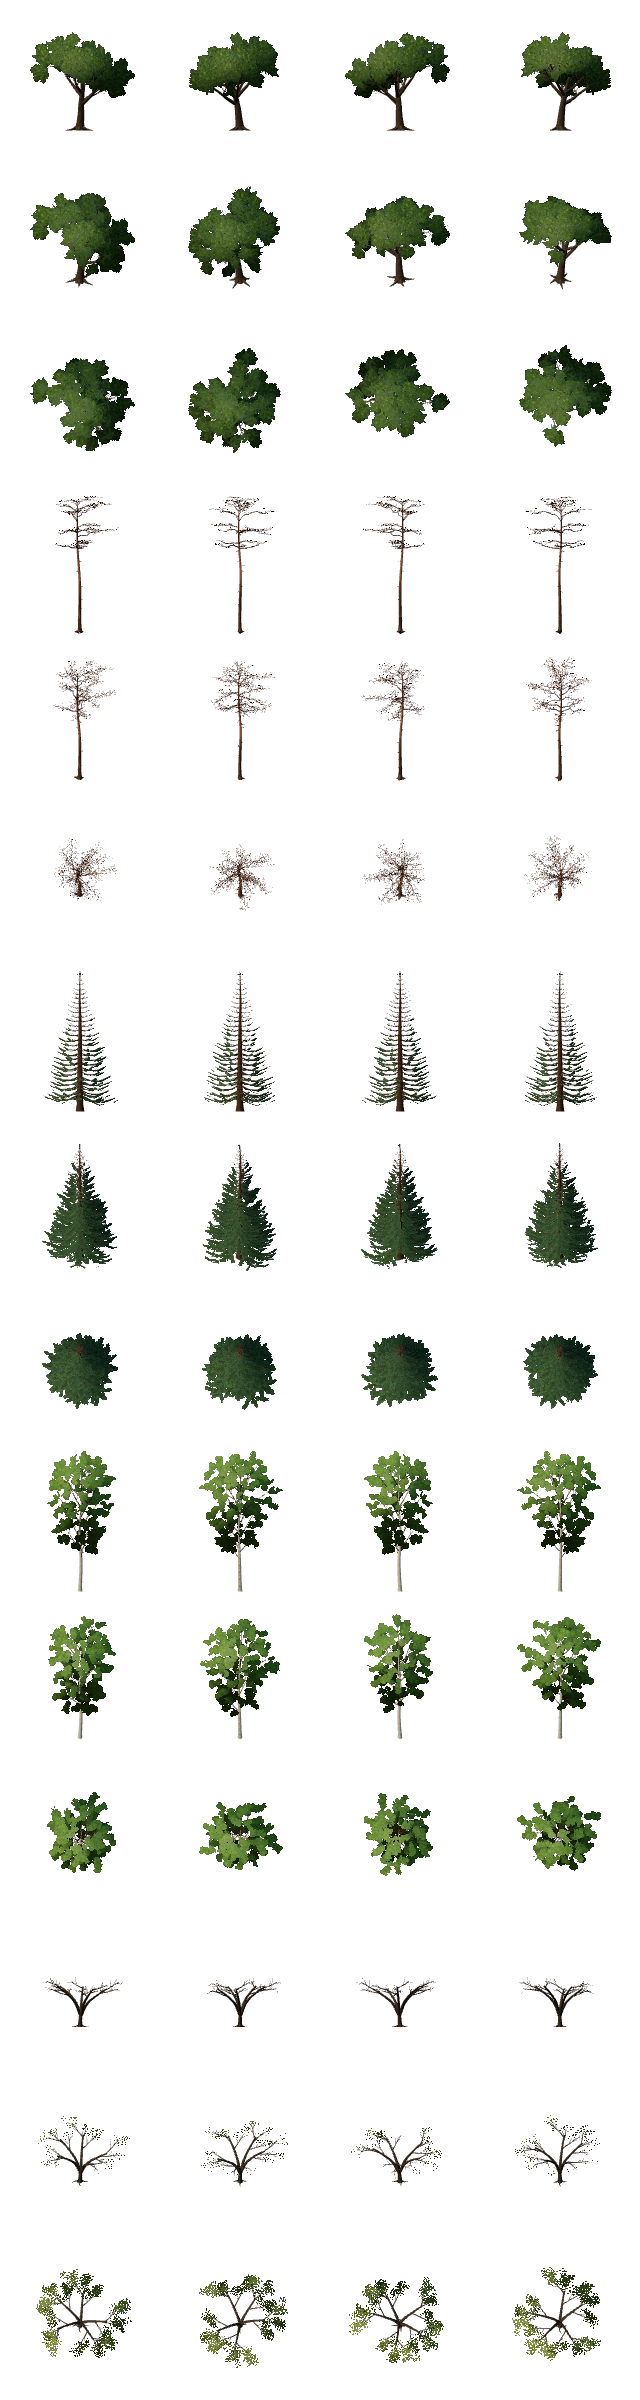
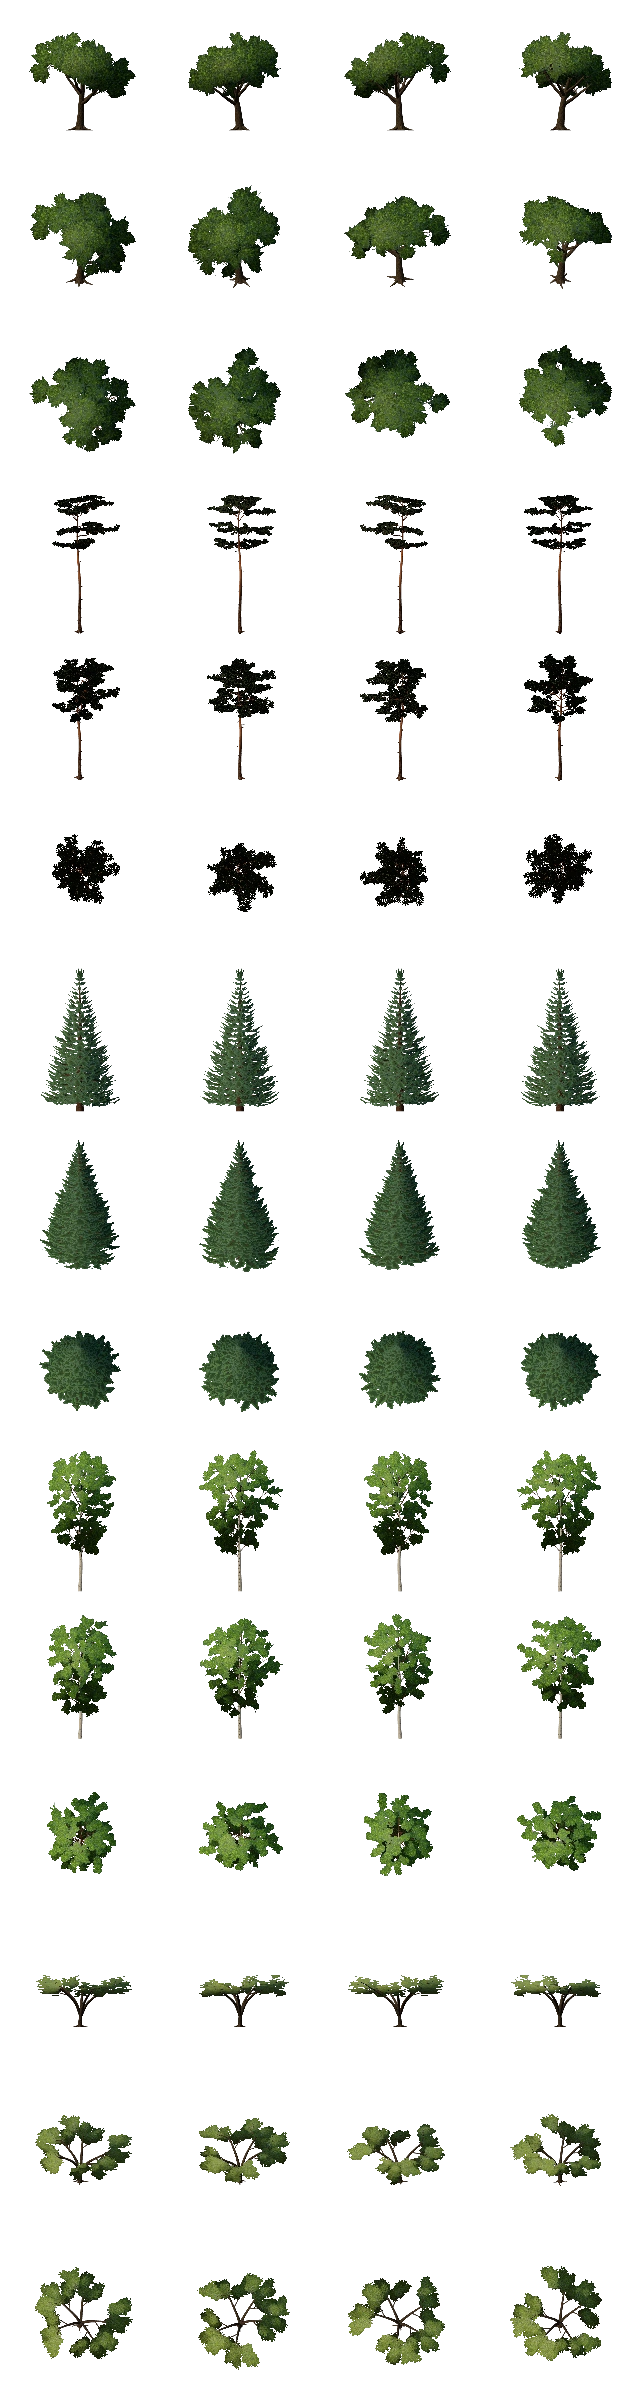
Verify biome boundaries, streaming, shared resources and supersampled distant foliage

diff --git a/scripts/forest-browser-check.js b/scripts/forest-browser-check.js
@@ -1,0 +1,138 @@
+import assert from 'node:assert/strict';
+import { mkdir, writeFile } from 'node:fs/promises';
+import { chromium } from 'playwright-core';
+import { createServer } from 'vite';
+import { stations } from '../src/data/world.js';
+
+const baseline = process.argv.includes('--baseline');
+const out =
+  process.env.FOREST_OUTPUT ||
+  'test-results/forests/' + (baseline ? 'before' : 'after');
+const stationsById = Object.fromEntries(stations.map((s) => [s.id, s]));
+const views = {
+  highway: { x: -595, z: 1952, above: 2.05, yaw: -0.34, pitch: 0.035 },
+  'highway-aerial': { x: -435, z: 2120, above: 184, yaw: 0.7, pitch: -0.48 },
+  slope: { x: -1520, z: -1240, above: 118, yaw: 0.87, pitch: -0.32 },
+  interior: stationsById.forest,
+  edge: { x: -68, z: 1805, above: 5.1, yaw: 1.92, pitch: 0.015 },
+  coast: stationsById.strand,
+  showcase: stationsById['tree-showcase'],
+};
+const server = await createServer({
+  server: { host: '127.0.0.1', port: 0, hmr: false, watch: null },
+  logLevel: 'error',
+});
+await server.listen();
+let browser;
+try {
+  await mkdir(out, { recursive: true });
+  browser = await chromium.launch({
+    executablePath: process.env.CHROME_PATH,
+    args: process.env.AIRP_SOFTWARE_GL
+      ? [
+          '--no-zygote',
+          '--single-process',
+          '--use-gl=angle',
+          '--use-angle=swiftshader',
+          '--enable-unsafe-swiftshader',
+          '--disable-dev-shm-usage',
+        ]
+      : [],
+  });
+  const page = await browser.newPage({ viewport: { width: 896, height: 544 } });
+  const errors = [];
+  page.on('pageerror', (e) => errors.push(String(e)));
+  page.on('console', (m) => {
+    if (m.type() === 'error') errors.push(m.text());
+  });
+  page.on('response', (r) => {
+    if (r.status() >= 400) errors.push(r.status() + ' ' + r.url());
+  });
+  page.setDefaultTimeout(180000);
+  await page.goto('http://127.0.0.1:' + server.httpServer.address().port);
+  await page.waitForFunction(() => window.airp && !airp.waitForTerrain);
+  await page.evaluate(() => {
+    airp.quality('medium');
+    airp.maxDpr = airp.nextDpr = 0.8;
+    airp.resPeriod = -1e8;
+  });
+  const results = {};
+  for (const [name, view] of Object.entries(views)) {
+    if (name === 'showcase') {
+      await page.locator('#atlas-btn').click();
+      await page
+        .locator('#stations')
+        .getByRole('button', { name: 'Tree Model Showcase', exact: true })
+        .click();
+    } else await page.evaluate((v) => airp.travel(v), view);
+    await page.waitForFunction(
+      () =>
+        !airp.waitForTerrain &&
+        airp.streamer.settled &&
+        airp.roads.settled &&
+        (!airp.forest || airp.forest.settled),
+    );
+    results[name] = await page.evaluate(async () => {
+      const times = [];
+      let last = performance.now();
+      for (let i = 0; i < 14; i++) {
+        await new Promise(requestAnimationFrame);
+        const now = performance.now();
+        if (i > 1) times.push(now - last);
+        last = now;
+      }
+      times.sort((a, b) => a - b);
+      const info = airp.renderer.info;
+      return {
+        frameMs: times[6],
+        p90Ms: times[10],
+        fps: 1000 / times[6],
+        draws: info.render.calls,
+        triangles: info.render.triangles,
+        ...info.memory,
+        forest: airp.forest
+          ? {
+              ...airp.forest.stats,
+              frustumInstances: airp.forest.canopy.visibleInstances,
+            }
+          : undefined,
+        heapMiB: performance.memory?.usedJSHeapSize / 1048576,
+        showcase: airp.showcase.groves.reduce(
+          (sum, g) => sum + g.trees.length,
+          0,
+        ),
+      };
+    });
+    await page.screenshot({
+      path: out + '/' + name + '.jpg',
+      quality: 88,
+      style: 'main > :not(#world) {visibility:hidden !important;}',
+    });
+    await writeFile(out + '/metrics.json', JSON.stringify(results, null, 2));
+    console.log(name, JSON.stringify(results[name]));
+  }
+  assert.equal(results.showcase.showcase, 15);
+  if (!baseline) {
+    assert.ok(results.interior.forest?.instances > 0);
+    await page.evaluate(async (views) => {
+      for (let i = 0; i < 28; i++) {
+        const x = -595 - i * 100,
+          z = 1952 - i * 105;
+        airp.travel({ ...views.highway, x, z });
+        await new Promise(requestAnimationFrame);
+      }
+      airp.travel(views.interior);
+    }, views);
+    await page.waitForFunction(
+      () =>
+        !airp.waitForTerrain && airp.streamer.settled && airp.forest.settled,
+    );
+    const reloaded = await page.evaluate(() => airp.forest.stats);
+    assert.equal(reloaded.instances, results.interior.forest.instances);
+    assert.equal(reloaded.chunks, results.interior.forest.chunks);
+  }
+  assert.deepEqual(errors, []);
+} finally {
+  await browser?.close();
+  await server.close();
+}

diff --git a/scripts/tree-browser-check.js b/scripts/tree-browser-check.js
@@ -38,7 +38,7 @@ try {
   await ready();
   assert.equal(requests.length, 0, 'No tree downloads at the city spawn');
   await visit('Tree Model Showcase');
-  assert.equal(requests.length, 5);
+  assert.ok(requests.length >= 5);
   assert.equal(new Set(requests).size, 5);
   await page.keyboard.press('g');
   await page.waitForFunction(() => document.querySelector('#mode-label').textContent === 'GROUND LEVEL');
@@ -67,7 +67,7 @@ try {
     });
   });
   assert.equal(shaderChecks.length, 5);
-  assert.ok(shaderChecks.every(s => s.bark && s.leaves && s.shadows && s.shared && s.references === 1 && s.trees === 3));
+  assert.ok(shaderChecks.every(s => s.bark && s.leaves && s.shadows && s.shared && s.references >= 1 && s.references <= 2 && s.trees === 3));
   async function settled() {
     await page.waitForFunction(() => !airp.waitForTerrain && airp.streamer.settled && airp.roads.settled);
     await page.evaluate(() => new Promise(resolve => requestAnimationFrame(() => requestAnimationFrame(resolve))));
@@ -139,8 +139,10 @@ try {
   assert.ok(await page.evaluate(() => airp.showcase.groves.every(g =>
     g.trees.every(t => t.level === 'far') && g.batches.far.every(p => p.batch.count === 3))));
   await visit('Silverpine Forest');
+  await page.waitForFunction(()=>airp.forest.settled);
   assert.ok(await page.evaluate(() => !airp.showcase.root.parent && airp.showcase.root.children.length === 0 &&
-    !Array.from(airp.assets.entries.keys()).some(id => id.startsWith('showcase-'))));
+    Array.from(airp.assets.entries).filter(([id])=>id.startsWith('showcase-')).every(([,entry])=>entry.refs===1) &&
+    Array.from(airp.assets.entries.keys()).filter(id=>id.startsWith('showcase-')).length===airp.forest.models.entries.size));
   await visit('Tree Model Showcase');
   await settled();
   assert.ok(await page.evaluate(() => airp.showcase.groves.every(g => g.trees[0].level === 'near') &&

diff --git a/test/forest-streaming.test.js b/test/forest-streaming.test.js
@@ -1,0 +1,43 @@
+import test from 'node:test';
+import assert from 'node:assert/strict';
+import { Scene } from 'three';
+import { ForestModels } from '../src/forest/models.js';
+import { forestWindow, qualityLevels } from '../src/forest/window.js';
+
+test('forest windows prioritize nearby terrain and release the previous district', () => {
+  const keys = (x, z, quality) =>
+    forestWindow(x, z, qualityLevels[quality].radius);
+  const low = keys(-5, -5, 'low'),
+    medium = keys(-5, -5, 'medium'),
+    high = keys(-5, -5, 'high');
+  assert.ok(
+    low.length < medium.length &&
+      medium.length < high.length &&
+      high.length < 420,
+  );
+  assert.equal(medium[0].priority, 0);
+  assert.equal(new Set(medium.map((t) => t.key)).size, medium.length);
+  const border = keys(18, 18, 'medium');
+  assert.ok(border.every((t) => t.x <= 18 && t.z <= 18));
+  const next = new Set(keys(15, 10, 'medium').map((t) => t.key));
+  assert.ok(medium.every((t) => !next.has(t.key)));
+});
+test('a pending shared forest GLB releases its handle if the camera leaves first', async () => {
+  let releases = 0,
+    resolve;
+  const assets = {
+    acquire: () =>
+      new Promise((r) => {
+        resolve = r;
+      }),
+  };
+  const models = new ForestModels(new Scene(), assets, assert.fail);
+  const entry = models.request(1);
+  assert.equal(models.request(1), entry);
+  models.draw([]);
+  resolve({ release: () => releases++ });
+  await new Promise(setImmediate);
+  assert.equal(releases, 1);
+  assert.equal(models.entries.size, 0);
+  assert.equal(models.scene.children.length, 0);
+});

diff --git a/test/forest.test.js b/test/forest.test.js
@@ -31,3 +31,38 @@ test('protect roads, lots, landings, demonstration clearing and shoreline', () =
   assert.ok(isProtected(-380, 405, 3));
   assert.equal(generateForestTile(0, 16).length, 0);
 });
+
+test('highlands favor conifers and dry lowlands admit all five species', () => {
+  function counts(x, z) {
+    const records = generateForestTile(x, z),
+      out = [0, 0, 0, 0, 0];
+    for (let i = 5; i < records.length; i += STRIDE) out[records[i]]++;
+    return out;
+  }
+  const high = counts(-7, -6),
+    low = counts(-3, 7);
+  assert.equal(high[4], 0);
+  assert.ok(high[1] + high[2] > 8 * (high[0] + high[3]));
+  assert.ok(low.every((n) => n > 0));
+  assert.ok(low[0] > low[1]);
+});
+
+test('trunks retain minimum separation across the shared edge of two populated tiles', () => {
+  const previous = new Map();
+  for (const tx of [-8, -7]) {
+    const trees = generateForestTile(tx, -6);
+    for (let k = 0; k < trees.length; k += STRIDE) {
+      const x = tx * 256 + trees[k],
+        z = trees[k + 1],
+        cx = Math.floor(x / 2),
+        cz = Math.floor(z / 2);
+      for (let dz = -1; dz <= 1; dz++)
+        for (let dx = -1; dx <= 1; dx++)
+          for (const [px, pz] of previous.get(cx + dx + ',' + (cz + dz)) || [])
+            assert.ok(Math.hypot(x - px, z - pz) >= 1.53);
+      const key = cx + ',' + cz;
+      if (!previous.has(key)) previous.set(key, []);
+      previous.get(key).push([x, z]);
+    }
+  }
+});

diff --git a/scripts/browser-check.js b/scripts/browser-check.js
@@ -209,10 +209,16 @@ try {
       await wait(
         () =>
           !e.waitForTerrain &&
-          s.settled &&
+          s.settled && e.forest.settled &&
           e.roads.settled &&
           s.center === Math.floor(x / 256) + ',' + Math.floor(z / 256),
       );
+      const forestGeometries=new Set(),forestTextures=new Set();
+      for(const tile of e.forest.tiles.values())if(tile.mesh)forestGeometries.add(tile.mesh.geometry);
+      for(const entry of e.forest.models.entries.values())for(const mesh of entry.root.children){
+        forestGeometries.add(mesh.geometry);
+        for(const v of Object.values(mesh.material))if(v?.isTexture)forestTextures.add(v);
+      }
       snapshots.push([
         s.tiles.size,
         s.sectors.size,
@@ -221,6 +227,7 @@ try {
         e.roads.meshes.size,
         new Set([...e.places.models.values()].map(m=>m.geometry)).size,
         [...e.assets.entries.keys()].filter(id=>e.assets.manifest[id].type==='texture').length,
+        forestGeometries.size,forestTextures.size+1,e.forest.stats.instances,
       ]);
     }
     e.controls.setMode('ground');
@@ -276,7 +283,7 @@ try {
   assert.deepEqual(route.snapshots[4], route.snapshots.at(-1));
   assert.ok(
     route.snapshots.every(
-      (p) => p[2] <= p[0]+p[1]+p[4]+p[5]+2 && p[3] <= p[6]+6,
+      (p) => p[2] <= p[0]+p[1]+p[4]+p[5]+2+p[7] && p[3] <= p[6]+6+p[8],
     ),
   );
   assert.ok(route.cellCache<=140);

diff --git a/scripts/forest-impostors.js b/scripts/forest-impostors.js
@@ -47,6 +47,7 @@ try {
         antialias: true,
         preserveDrawingBuffer: true,
       });
+    renderer.setPixelRatio(3);
     renderer.setSize(size, size);
     renderer.setClearColor(0, 0);
     renderer.toneMapping = T.ACESFilmicToneMapping;
@@ -58,6 +59,11 @@ try {
       const handle = await assets.acquire(s.assetId),
         tree = handle.value.instantiate();
       scene.add(tree);
+      // A distant needle may cover a fraction of a texel. Supersample masks
+      // before reducing the portrait to its shipping size.
+      tree.traverse((part) => {
+        if (part.material?.alphaTest) part.material.alphaTest *= 0.7;
+      });
       tree.getObjectByName('far').visible = false;
       const { width, height, depth } = s.dimensions;
       const span = Math.max(height * 1.12, Math.hypot(width, depth) * 1.1),
@@ -82,7 +88,13 @@ try {
           camera.lookAt(0, mid, 0);
           sun.position.set(Math.sin(yaw - 0.95), 1.2, Math.cos(yaw - 0.95));
           renderer.render(scene, camera);
-          ctx.drawImage(renderer.domElement, j * size, (i * 3 + tilt) * size);
+          ctx.drawImage(
+            renderer.domElement,
+            j * size,
+            (i * 3 + tilt) * size,
+            size,
+            size,
+          );
         }
       scene.remove(tree);
       handle.release();
